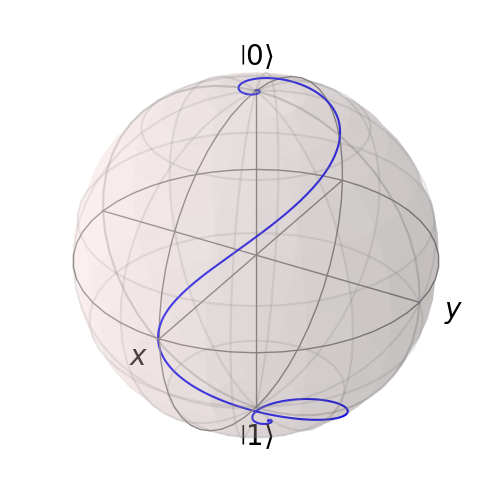
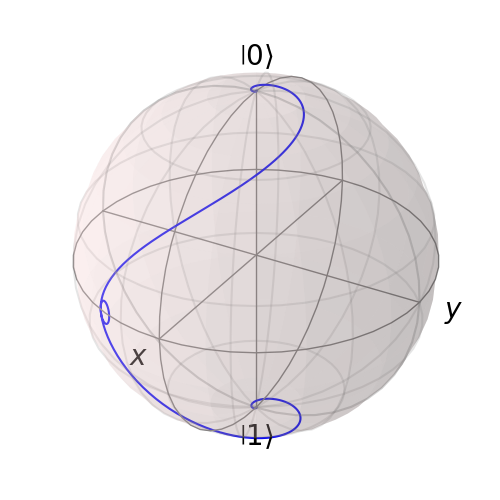
forgot delta=-beta/2 in dynamics

diff --git a/dynamics.py b/dynamics.py
@@ -5,8 +5,8 @@ from utils import TLS
 n_points = 1000
 t_points = np.linspace(-10, 10, n_points)
 
-beta = 2*np.pi
-sys = TLS('sech', beta=beta, delta=0, phi=3*np.pi, t_points=t_points)
+beta = 1.4*np.pi
+sys = TLS('sech', beta=beta, delta=-beta/2, phi=3*np.pi, t_points=t_points)
 print(sys.alpha/np.pi)
 sys.evolve(noisy=True)
 sys.plot()
